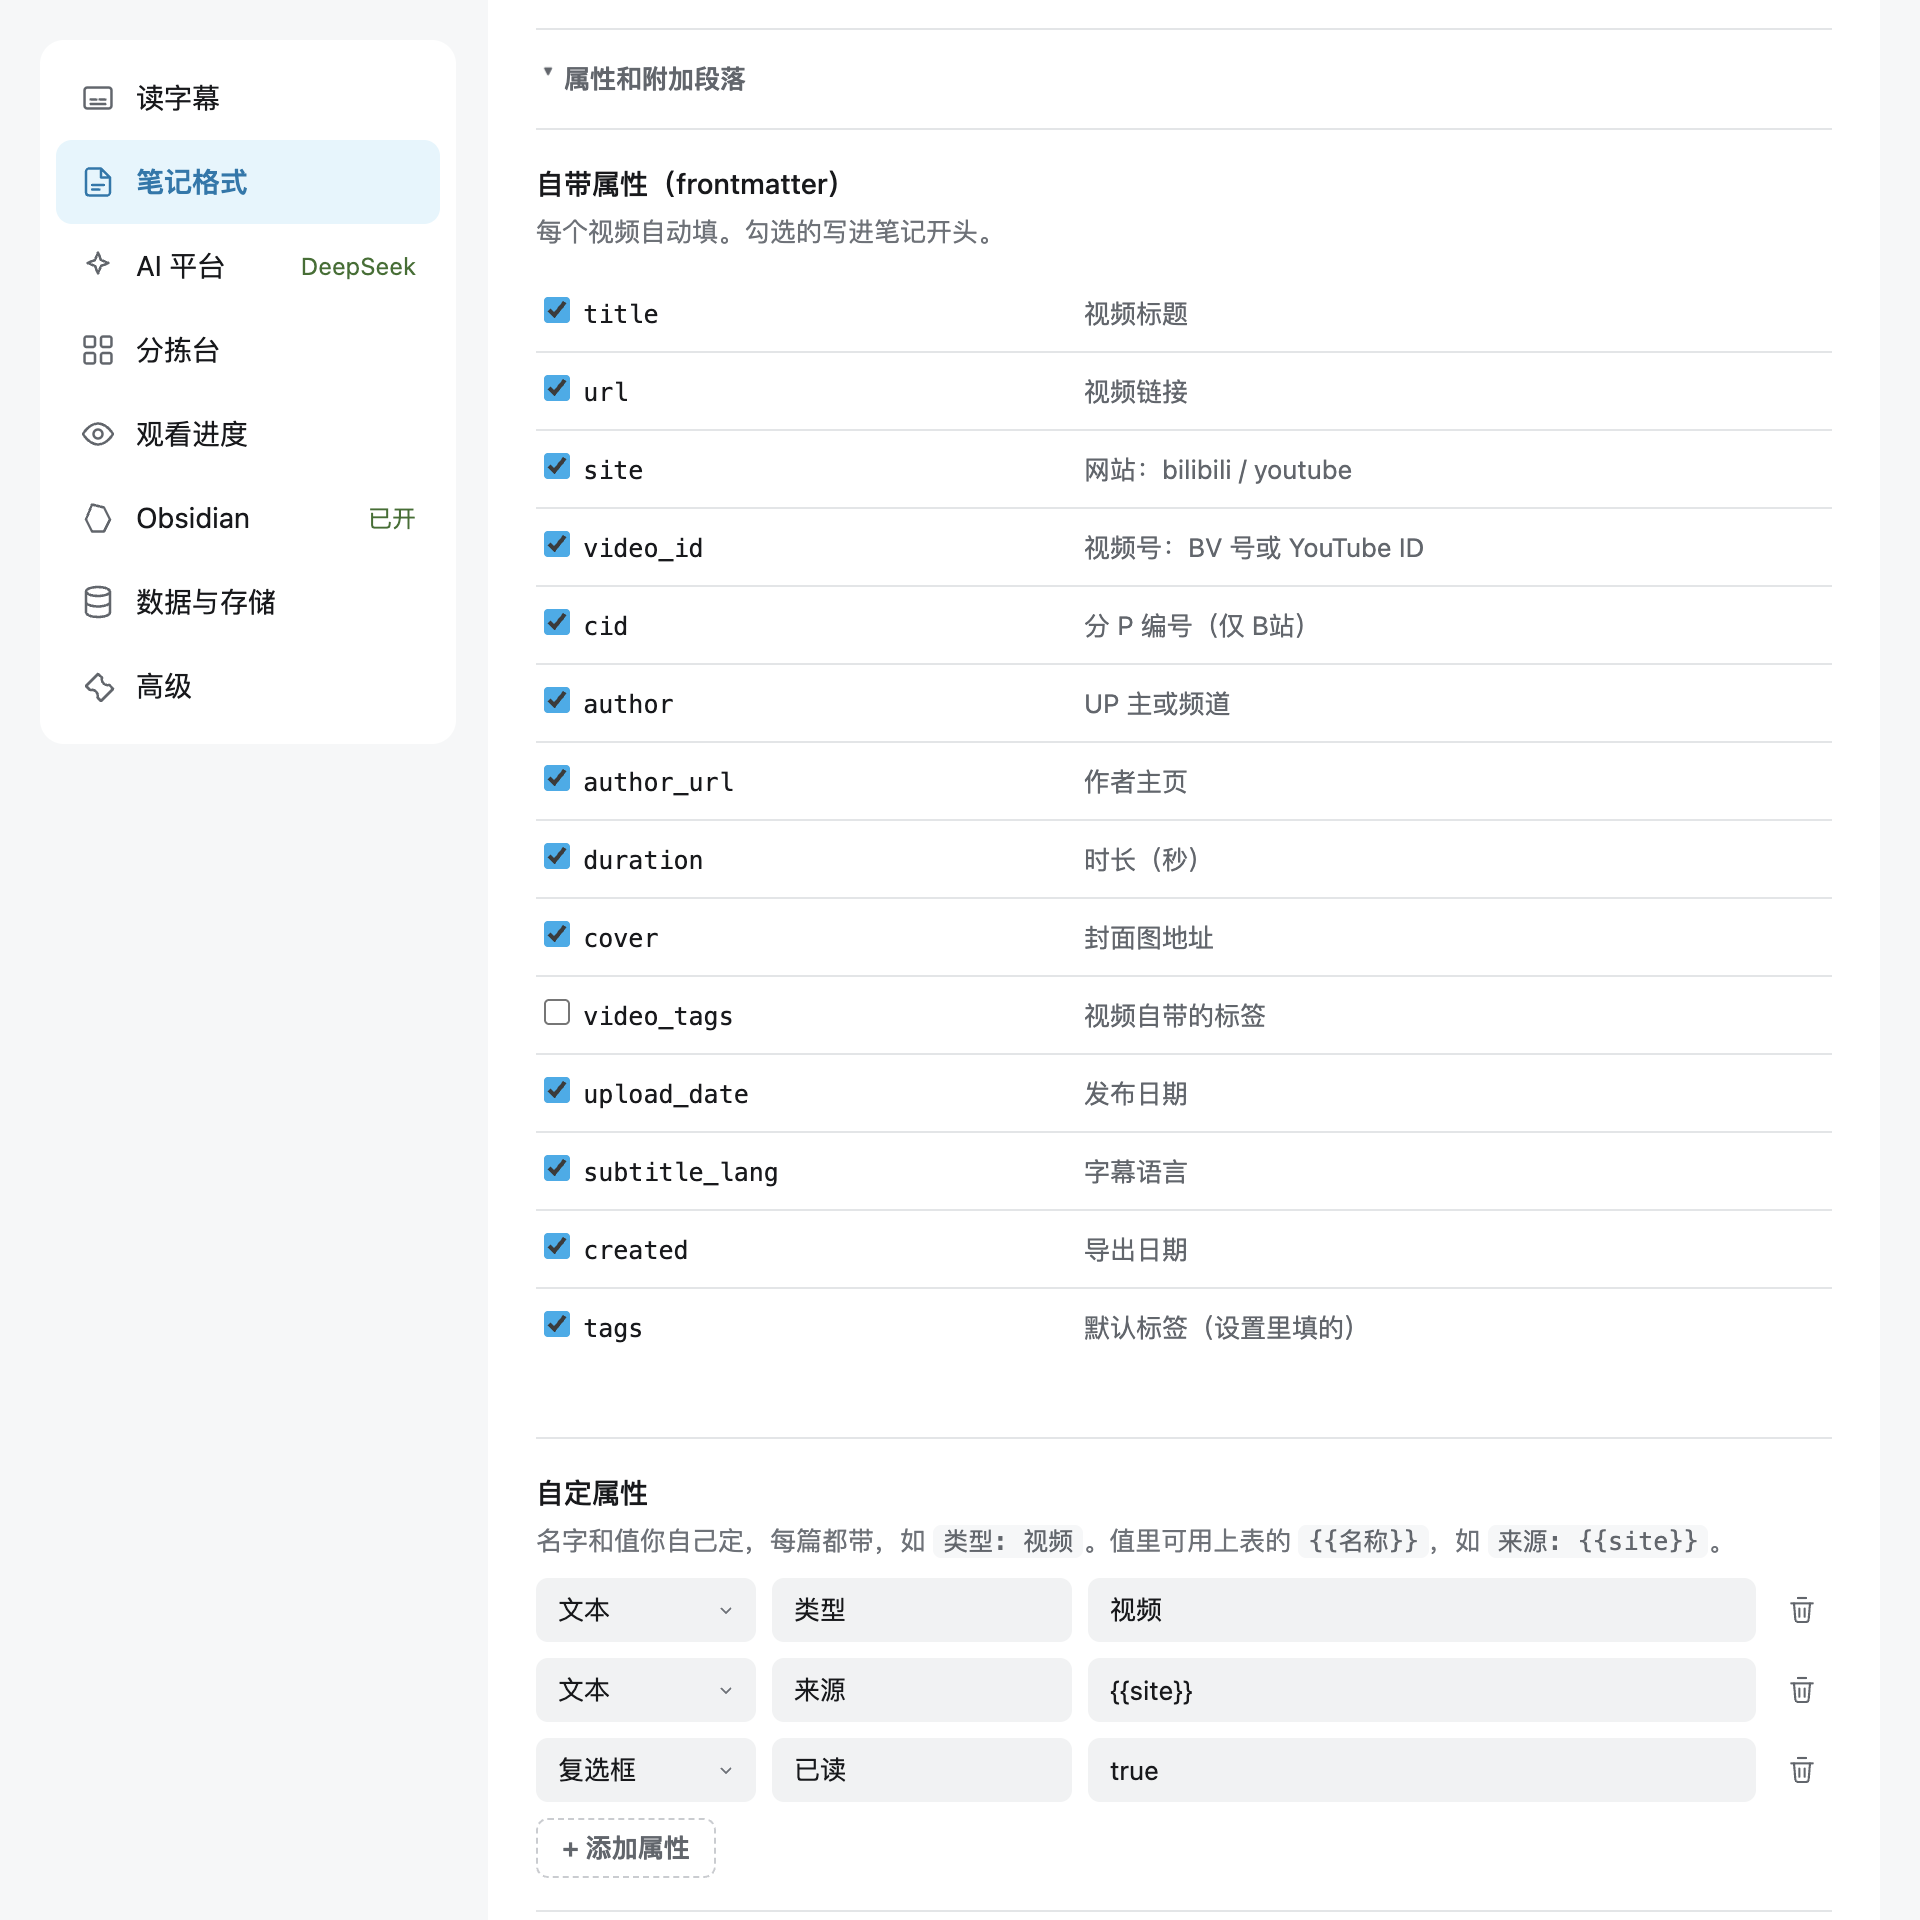
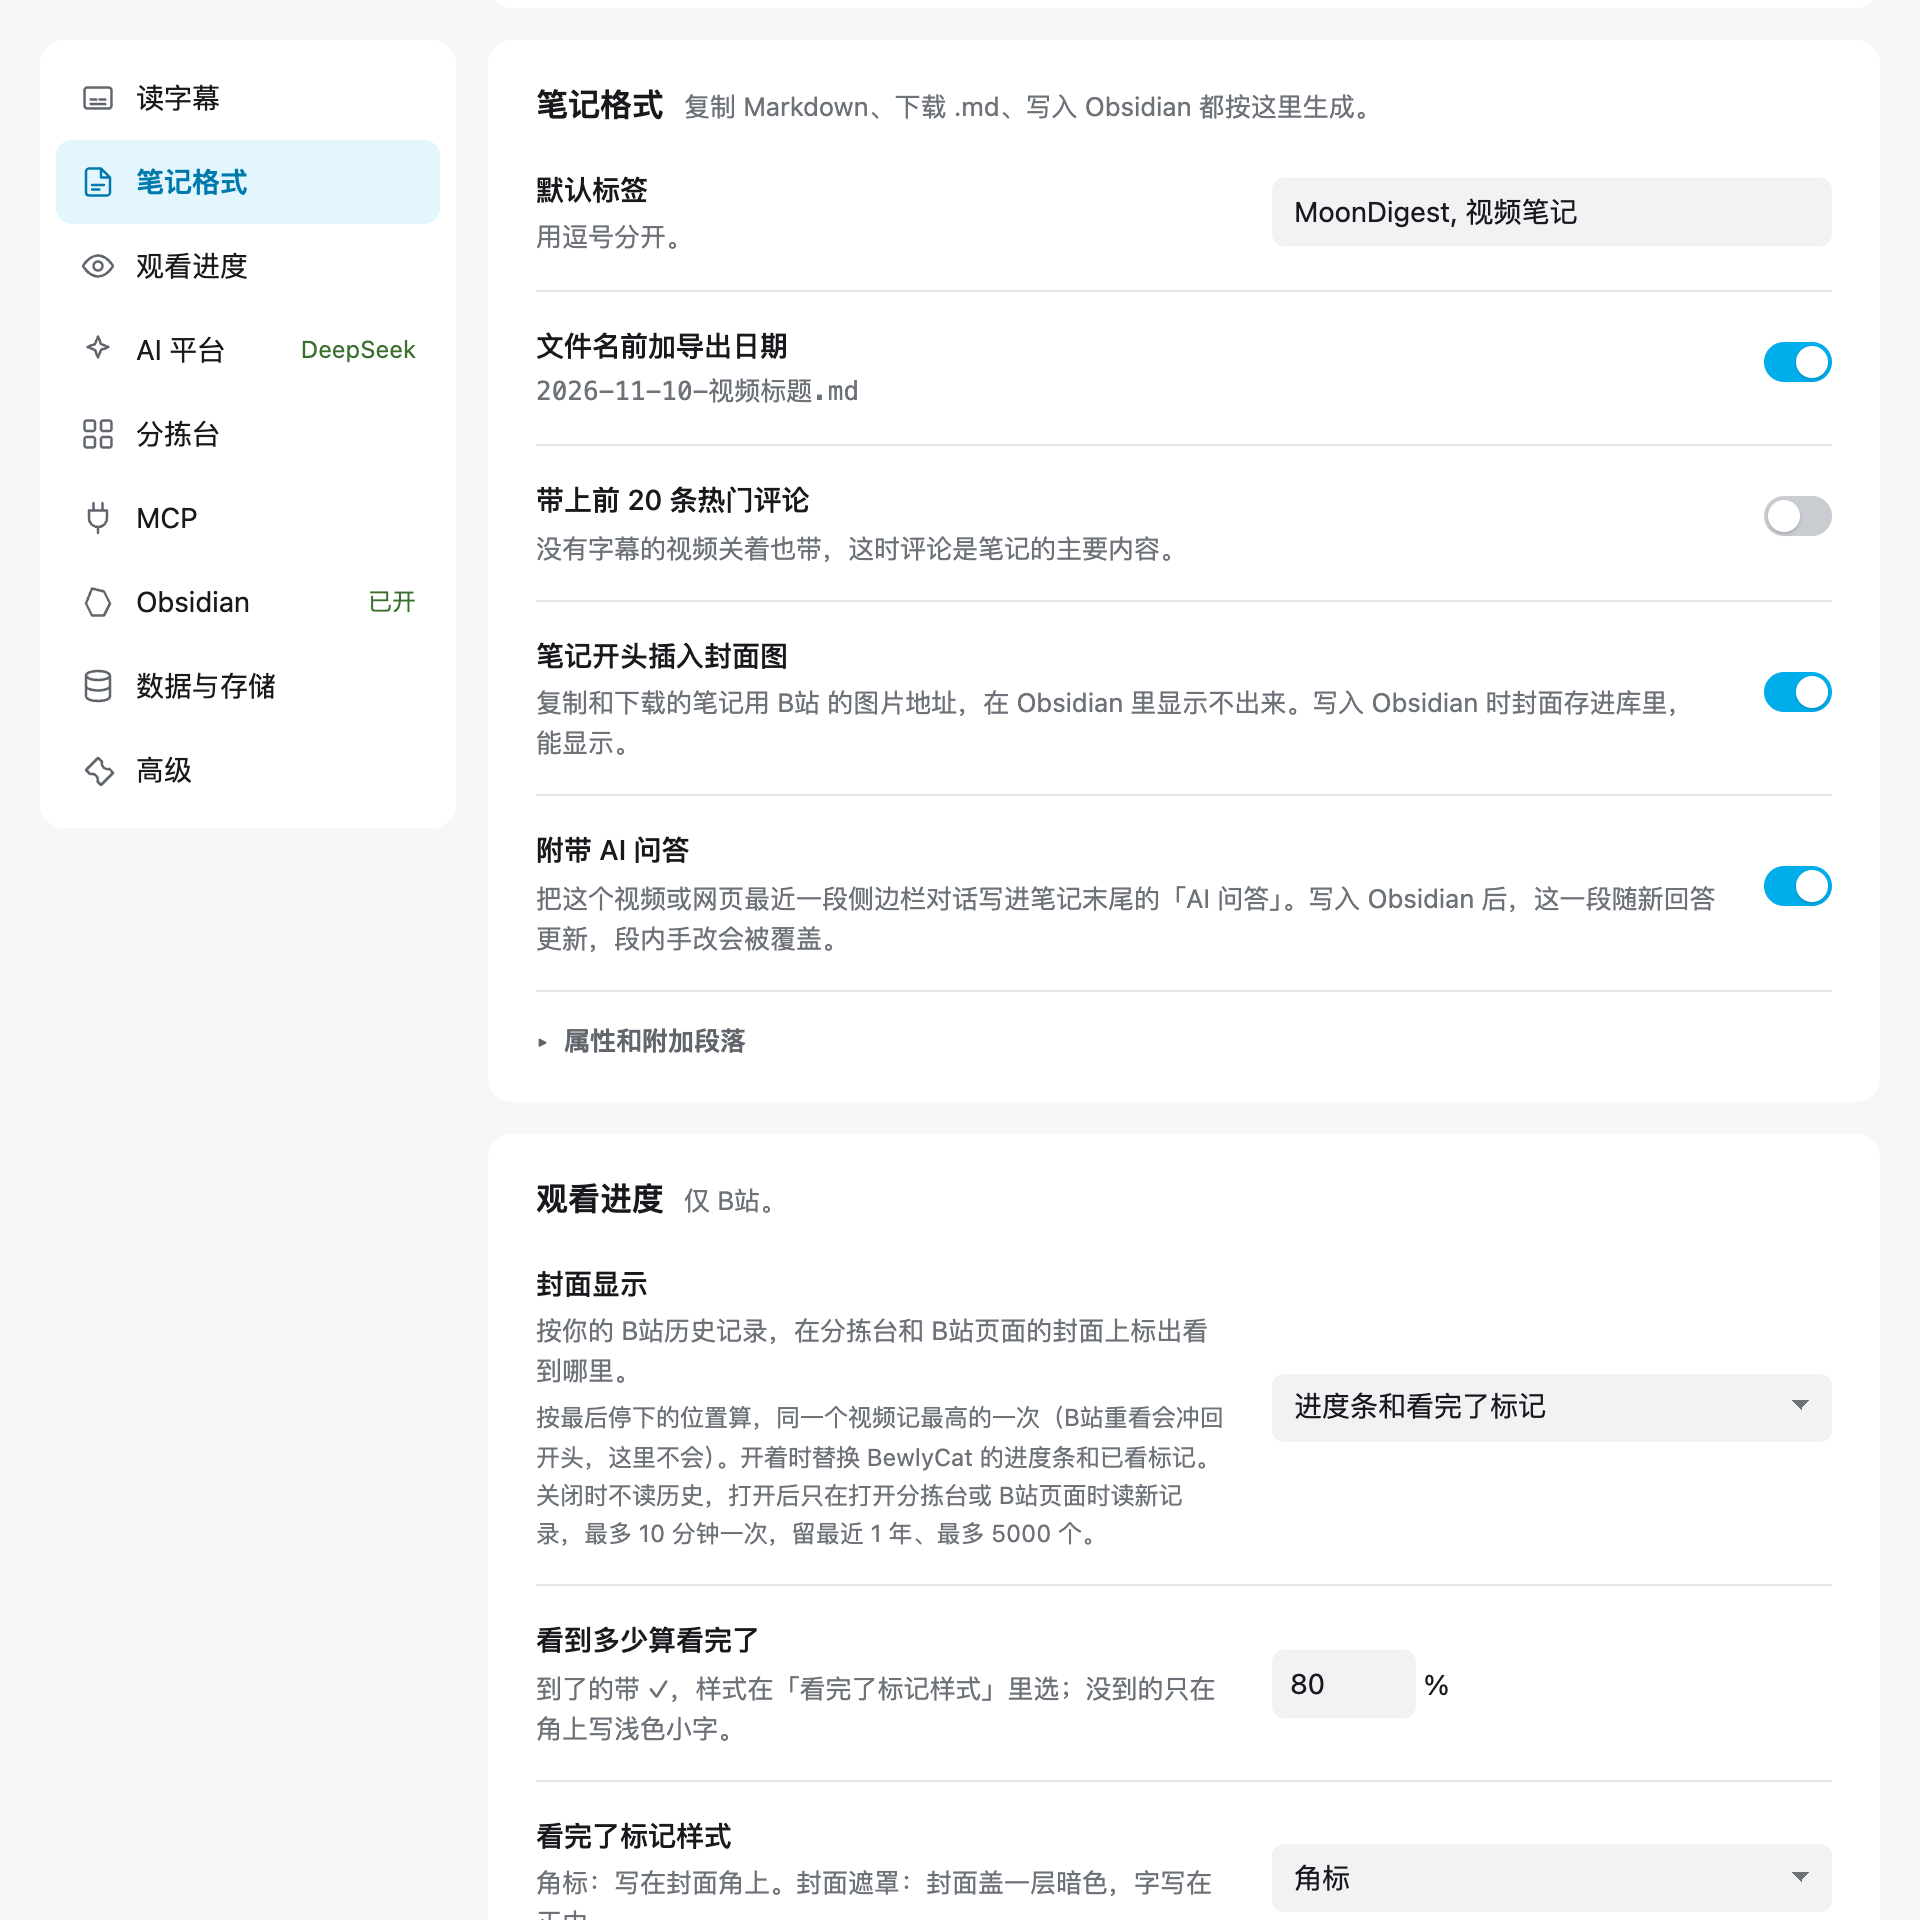
版本 3.7.8；README 截图换成新分拣台和设置页，补「允许 Agent 改分拣台」

diff --git a/README.md b/README.md
@@ -7,7 +7,7 @@
 收藏了却没看的视频、想读的网页，用 AI 帮你读完、整理好，挑出真正要看的。
 
 [![Chrome MV3](https://img.shields.io/badge/Chrome-MV3-4285F4?logo=googlechrome&logoColor=white)](https://developer.chrome.com/docs/extensions/develop/migrate/what-is-mv3)
-[![Version](https://img.shields.io/badge/version-3.7.7-7c6cf2)](extension/manifest.json)
+[![Version](https://img.shields.io/badge/version-3.7.8-7c6cf2)](extension/manifest.json)
 [![Platforms](https://img.shields.io/badge/platforms-Bilibili%20%7C%20YouTube-fb7299)](#功能)
 [![License](https://img.shields.io/badge/license-GPL--3.0-blue)](LICENSE)
 
@@ -52,7 +52,7 @@
 
 ## 给 AI agent 用
 
-Agent 碰到视频通常只能看标题和封面。装了 MoonDigest，agent 能借你浏览器的登录状态拿到视频的字幕、章节、简介和热门评论，还能截取任意一秒的画面。用 MCP 时，agent 还能借你的登录搜 B站和 YouTube 视频。不下载视频，不花 AI 额度，读不到你的 Key 和 AI 对话。你的收藏夹、关注、观看历史和分拣台里的标签、备注，只有打开「允许 Agent 读我的收藏、关注和历史」后才能通过 MCP 读；B站稍后再看、YouTube 稍后观看和 YouTube 播放列表，再打开「允许 Agent 改我的收藏」后 agent 才能改。两种接法：
+Agent 碰到视频通常只能看标题和封面。装了 MoonDigest，agent 能借你浏览器的登录状态拿到视频的字幕、章节、简介和热门评论，还能截取任意一秒的画面。用 MCP 时，agent 还能借你的登录搜 B站和 YouTube 视频。不下载视频，不花 AI 额度，读不到你的 Key 和 AI 对话。你的收藏夹、关注、观看历史和分拣台里的标签、备注，只有打开「允许 Agent 读我的收藏、关注和历史」后才能通过 MCP 读；分拣台的 AI 判断、保留、备注和标签，再打开「允许 Agent 改分拣台」后 agent 才能写，取消收藏、移动和复制只能提议，要你在分拣台确认；B站稍后再看、YouTube 稍后观看和 YouTube 播放列表，再打开「允许 Agent 改我的收藏」后 agent 才能改。两种接法：
 
 - **skill**（agent 能操控浏览器，如 ego、Claude in Chrome、Playwright）：
 
